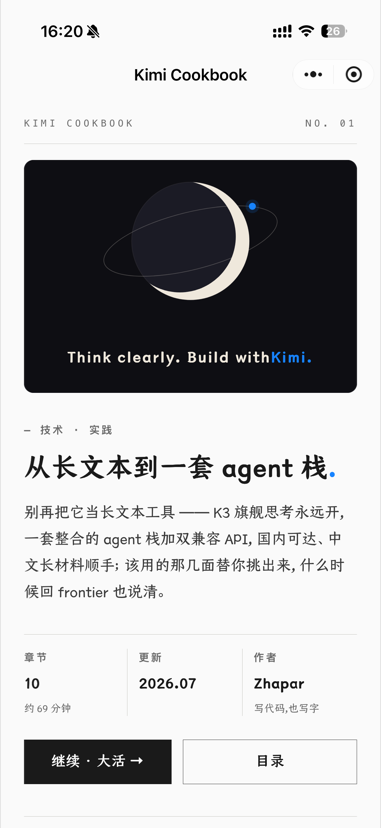
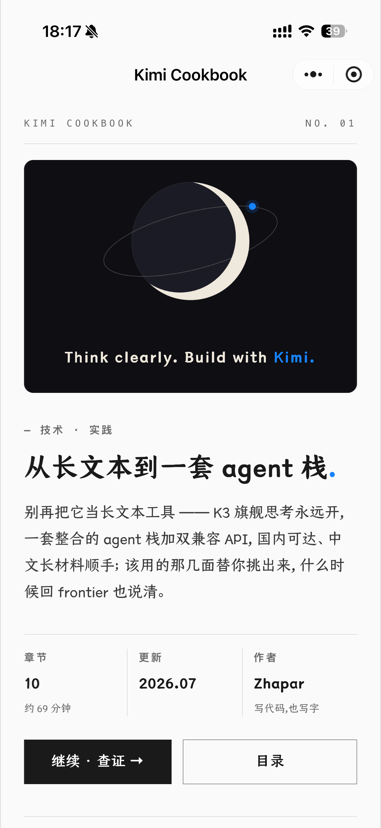
docs(mp): home.png 重截(空格修复) + Credits 写书原由与仓耳字库鸣谢

diff --git a/README.md b/README.md
@@ -202,6 +202,24 @@ SVG 图 / 封面卡栅格化、`/api/mp/v1/version` 缓存失效精确化、mp-r
 
 ## Credits
 
-Designed by [Zhaphar](https://x.com/ak_zhaphar) · Built by Kimi Code —
-本书讲 Kimi Code,而它的阅读端正是 Kimi Code 写的。字体与封面图由
-[kimi-cookbook](https://github.com/aklmans/kimi-cookbook) 站点提供。
+Designed by [Zhaphar](https://x.com/ak_zhaphar) · Built by Kimi Code ——
+一本讲 Kimi 的书,它的阅读端由书里的工具自己写成。
+
+**为什么写这本书**(作者原话):
+
+> 产品页会告诉你 Kimi 能做什么,但很少告诉你这件功能值不值得花十分钟学。
+> 一份会员打开的入口越来越多: 聊天框、四种模式、Agent、Agent 集群、
+> Deep Research、Kimi Code、开放平台 API。问题不再是「有没有功能」,
+> 而是「这件活该从哪一面开始」。
+>
+> 这本书只解决一类判断: Kimi 的每一面对标前沿的哪一个、买哪档够用、
+> 什么活该交给它、什么时候该回 frontier。读完以后,你应该能去做一件事,
+> 或者放心不做一件事。
+
+**字体**:正文「仓耳今楷」(Tsanger JinKai,W04 / W05 字重)由
+[仓耳字库](https://tsanger.cn/)设计——感谢仓耳字库「所有字体均可免费下载,
+允许个人非商业免费使用」的共享;小程序加载的是站点子集化后的在线字体。
+
+**封面图**:[kimi-cookbook](https://github.com/aklmans/kimi-cookbook) 站点的
+CoverVisual 月景(幽灵月盘 + 纸色月牙 + 轨道 + Kimi 蓝卫星),
+栅格化为本地资产。